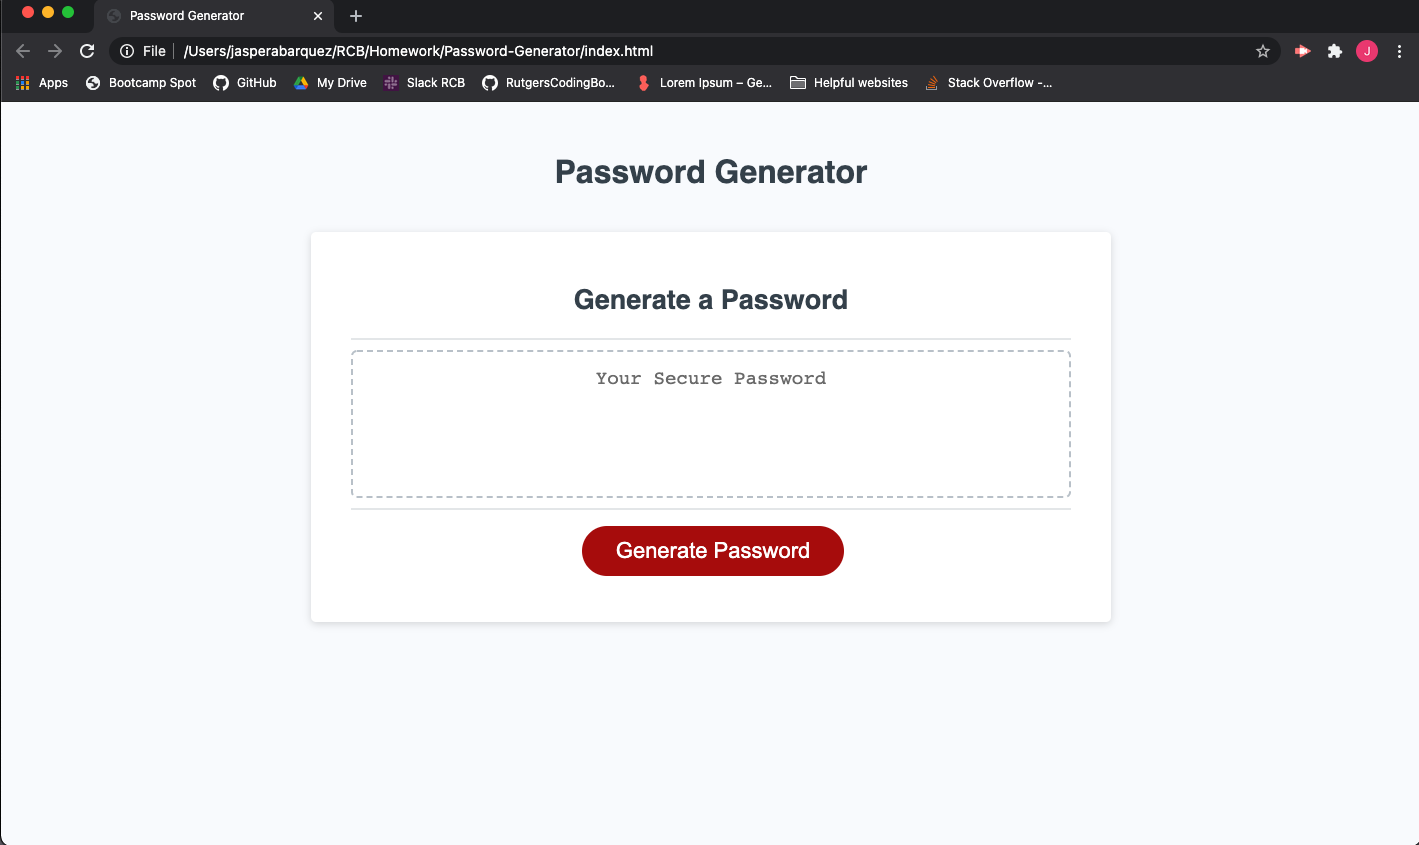
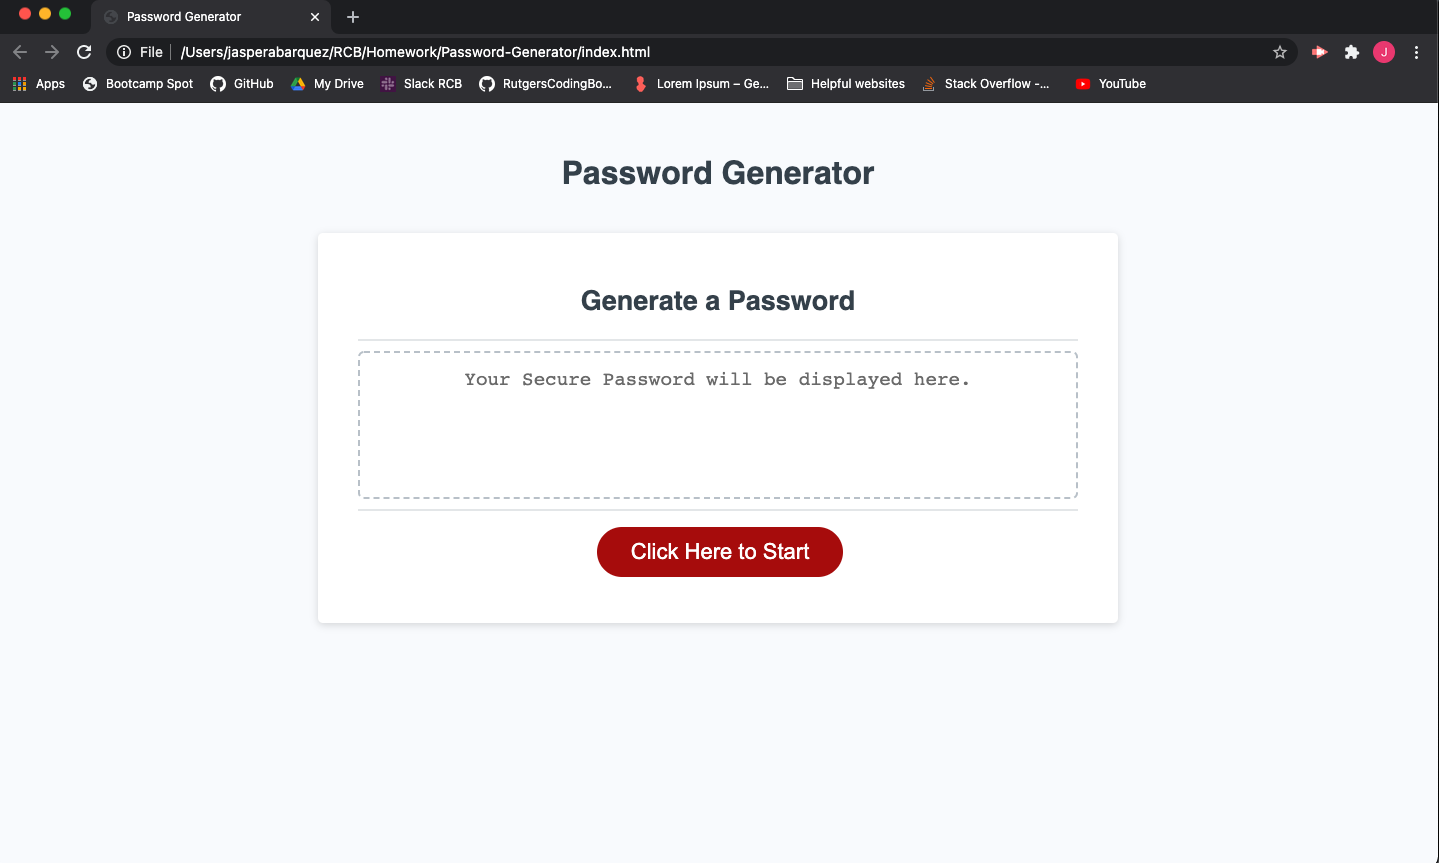
updated screenshot

diff --git a/index.html b/index.html
@@ -20,12 +20,12 @@
           <textarea
             readonly
             id="password"
-            placeholder="Your Secure Password"
+            placeholder="Your Secure Password will be displayed here."
             aria-label="Generated Password"
           ></textarea>
         </div>
         <div class="card-footer">
-          <button id="generate" class="btn">Generate Password</button>
+          <button id="generate" class="btn">Click Here to Start</button>
         </div>
       </div>
     </div>
